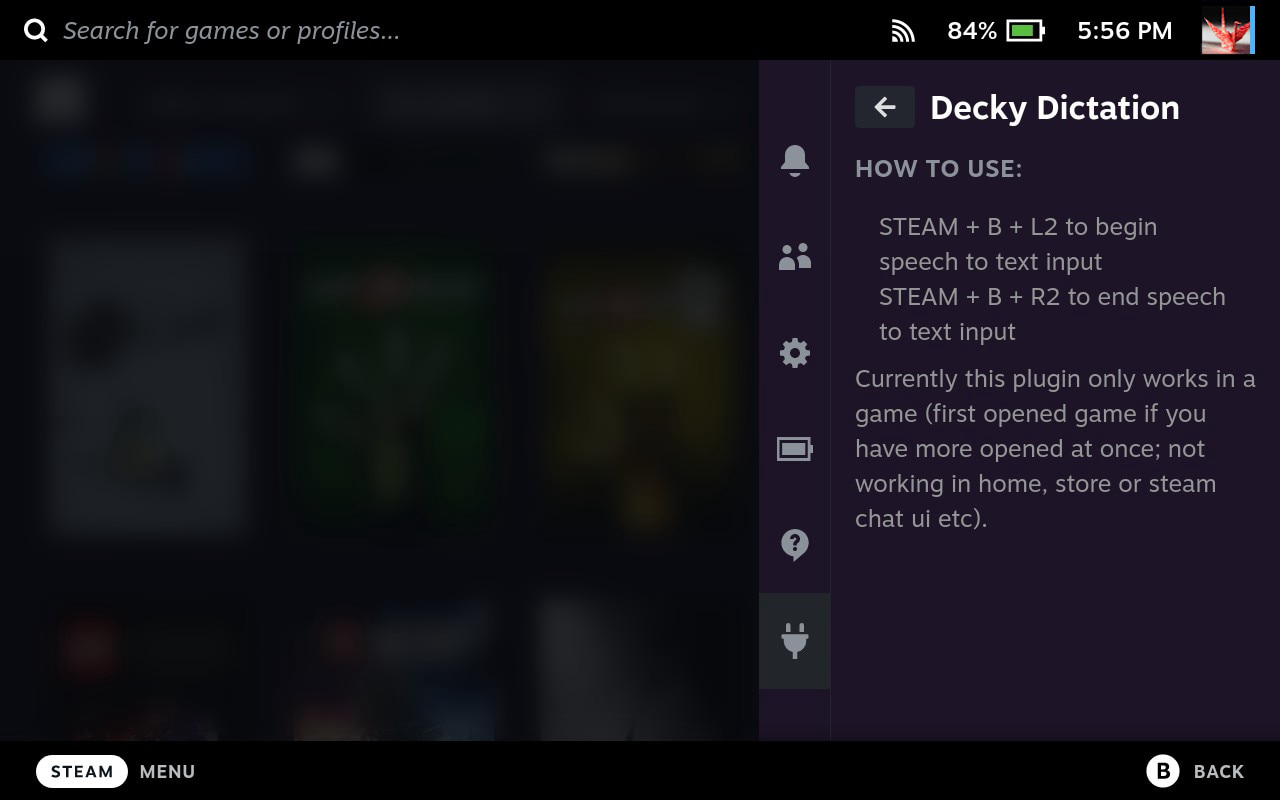
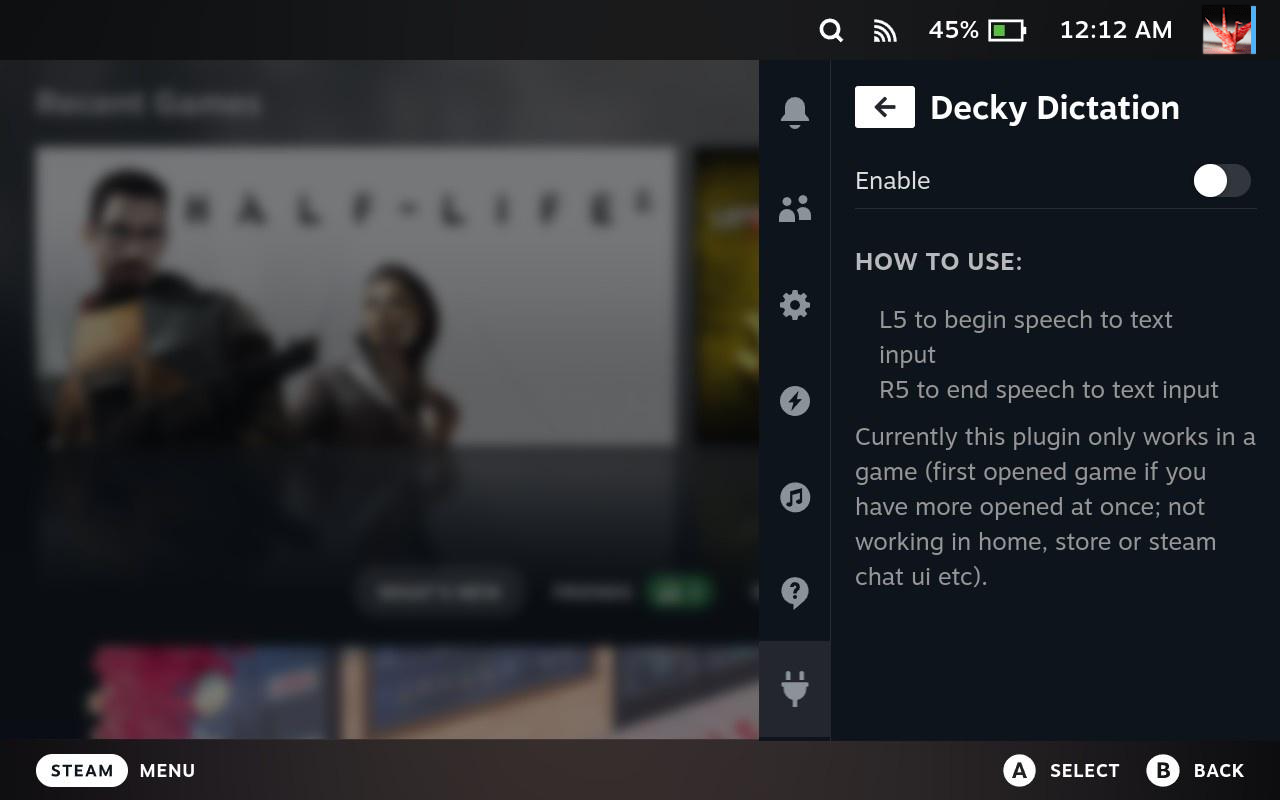
change hotkeys, add enable toggle and some cleanup

diff --git a/src/index.tsx b/src/index.tsx
@@ -3,12 +3,15 @@ import {
 	PanelSection,
 	PanelSectionRow,
 	ServerAPI,
-	staticClasses,
+	quickAccessMenuClasses,
 	Router,
+	ToggleField,
 } from "decky-frontend-lib";
 
 import {
 	VFC,
+	useEffect,
+	useState,
 } from "react";
 
 import { FaComment } from "react-icons/fa";
@@ -16,6 +19,7 @@ import { FaComment } from "react-icons/fa";
 class DeckyDictationLogic {
 	serverAPI: ServerAPI;
 	pressedAt: number = Date.now();
+	enabled: boolean = false;
 
 	constructor(serverAPI: ServerAPI) {
 		this.serverAPI = serverAPI;
@@ -34,6 +38,9 @@ class DeckyDictationLogic {
 	}
 
 	handleButtonInput = async (val: any[]) => {
+		if (!this.enabled) {
+			return;
+		}
 		/*
 		R2 0
 		L2 1
@@ -57,7 +64,7 @@ class DeckyDictationLogic {
 			if (Date.now() - this.pressedAt < 2000) {
 				continue;
 			}
-			if (inputs.ulButtons && inputs.ulButtons & (1 << 13) && inputs.ulButtons & (1 << 5) && inputs.ulButtons & (1 << 1)) {
+			if (inputs.ulButtons && inputs.ulButtons & (1 << 15)) {
 				this.pressedAt = Date.now();
 				(Router as any).DisableHomeAndQuickAccessButtons();
 				setTimeout(() => {
@@ -66,7 +73,7 @@ class DeckyDictationLogic {
 				await this.notify("Decky Dictation", 2000, "Starting speech to text input");
 				await this.serverAPI.callPluginMethod('begin', {});
 			}
-			if (inputs.ulButtons && inputs.ulButtons & (1 << 13) && inputs.ulButtons & (1 << 5) && inputs.ulButtons & (1 << 0)) {
+			if (inputs.ulButtons && inputs.ulButtons & (1 << 16)) {
 				this.pressedAt = Date.now();
 				(Router as any).DisableHomeAndQuickAccessButtons();
 				setTimeout(() => {
@@ -80,22 +87,38 @@ class DeckyDictationLogic {
 
 }
 
-const DeckyDictation: VFC = () => {
-	return (
-		<PanelSection title="How to use:">
-			<PanelSectionRow>
-				<div>
-					STEAM + B + L2 to begin speech to text input
-					<br />
-					STEAM + B + R2 to end speech to text input
-				</div>
-				<div>
-					Currently this plugin only works in a game (first opened game if you have more opened at once; not working in home, store or steam chat ui etc).
-				</div>
-			</PanelSectionRow>
-		</PanelSection>
-	);
+const DeckyDictation: VFC<{ logic: DeckyDictationLogic }> = ({ logic }) => {
+	const [enabled, setEnabled] = useState<boolean>(false);
 
+	useEffect(() => {
+		setEnabled(logic.enabled);
+	}, []);
+
+	return (
+		<div>
+			<PanelSection>
+				<PanelSectionRow>
+					<ToggleField
+						label="Enable"
+						checked={enabled}
+						onChange={(e) => { setEnabled(e); logic.enabled = e; }}
+					/>
+				</PanelSectionRow>
+			</PanelSection>
+			<PanelSection title="How to use:">
+				<PanelSectionRow>
+					<div>
+						L5 to begin speech to text input
+						<br />
+						R5 to end speech to text input
+					</div>
+					<div>
+						Currently this plugin only works in a game (first opened game if you have more opened at once; not working in home, store or steam chat ui etc).
+					</div>
+				</PanelSectionRow>
+			</PanelSection>
+		</div>
+	);
 };
 
 
@@ -103,8 +126,8 @@ export default definePlugin((serverApi: ServerAPI) => {
 	let logic = new DeckyDictationLogic(serverApi);
 	let input_register = window.SteamClient.Input.RegisterForControllerStateChanges(logic.handleButtonInput);
 	return {
-		title: <div className={staticClasses.Title}>Decky Dictation</div>,
-		content: <DeckyDictation />,
+		title: <div className={quickAccessMenuClasses.Title}>Decky Dictation</div>,
+		content: <DeckyDictation logic={logic} />,
 		icon: <FaComment />,
 		onDismount() {
 			input_register.unregister();

diff --git a/README.md b/README.md
@@ -15,8 +15,9 @@ This plugin was made with the [decky-plugin-template](https://github.com/SteamDe
 - 0.1.0 - initial version
 
 ### Nice to have
-- Allow support for mode switching and implement persistent config settings; add new push to talk mode (hold STEAM + B + L2)
+- Allow support for mode switching and implement persistent config settings; add new push to talk mode (hold L5?)
 - Implement support for downloading and selecting other models at runtime (some more advanced models are too large to store on git; shippable stays with the small model)
+- Allow the user to configure their hotkeys of choice. (maybe per game?)
 
 ### Known issues
 - Currently this plugin only works in a game in game mode (first opened game if you have more opened at once; not working in home, store or steam chat ui etc).
@@ -26,11 +27,4 @@ This plugin was made with the [decky-plugin-template](https://github.com/SteamDe
 - Thanks to [@marissa999](https://github.com/marissa999) for [decky-recorder](https://github.com/marissa999/decky-recorder) which has been used as a template for this plugin
 
 ### Building
-If you want to build this plugin in theory you only need to run build-zip.sh. You will need the following:
-- npm
-- pnpm
-- python + pip
-- Docker
-- zip
-
-I only tested this on macOS.
+If you want to build this plugin, please use the commands found in `.vscode/tasks.json`. Building this will make use of the [Decky Plugin CLI](https://github.com/SteamDeckHomebrew/cli).
